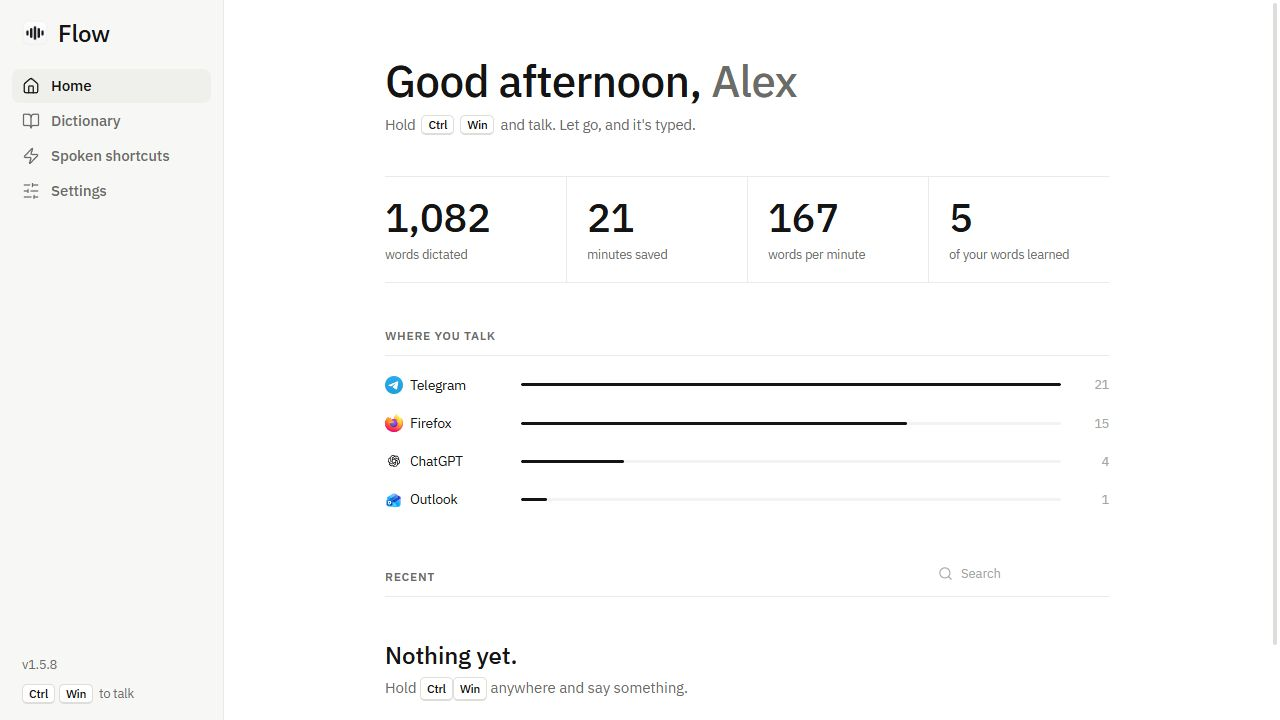
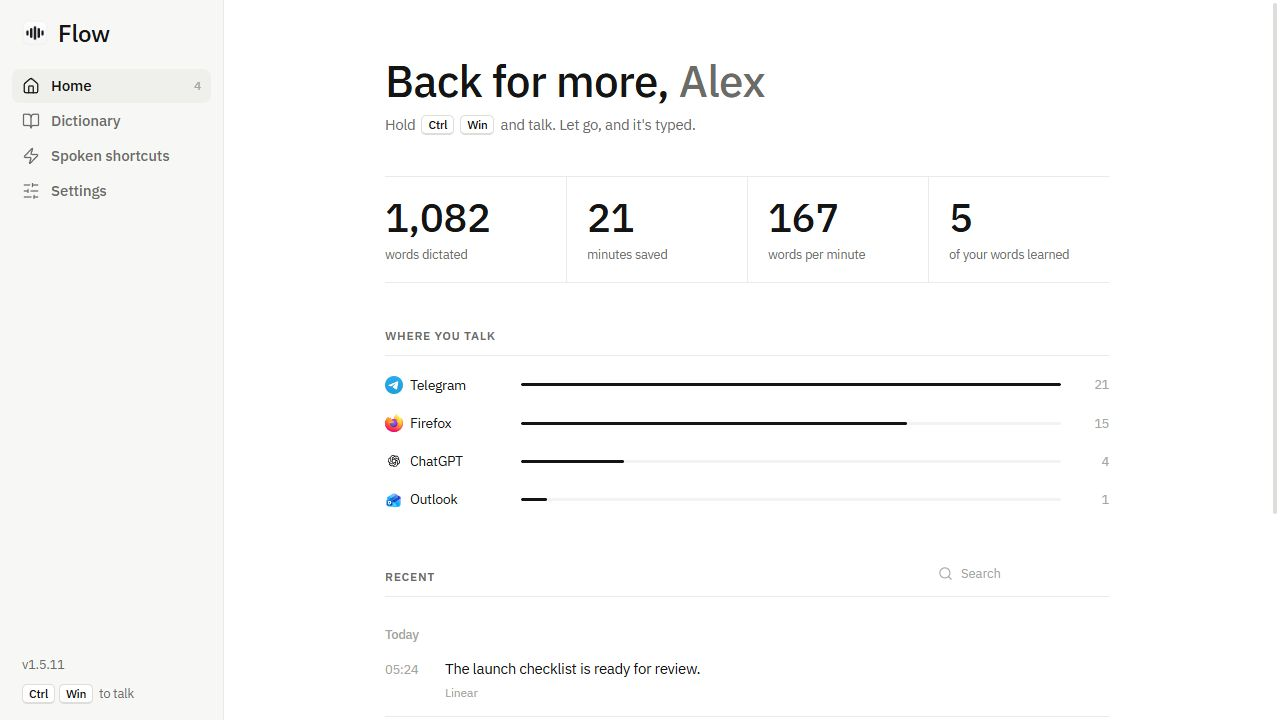
Fix Linux tutorial focus bridge and refresh release screenshots

Changed region(s): [[0.2812, 0.0917, 0.625, 0.1528], [0.2812, 0.8861, 0.5625, 0.9778]]

diff --git a/tests/test_port.py b/tests/test_port.py
@@ -46,6 +46,8 @@ class Bridge(unittest.TestCase):
         class DemoApi:
             def settings(self): return {"platform": "linux", "name": "Alex"}
             def save_settings(self, patch): return patch
+            def practice_focus(self, focused): return {"focused": focused}
+            def practice_close(self): return {"closed": True}
         self.server, self.url = make_server(DemoApi())
         self.thread = threading.Thread(target=self.server.serve_forever, daemon=True)
         self.thread.start()
@@ -79,6 +81,16 @@ class Bridge(unittest.TestCase):
     def test_private_methods_and_invalid_args(self):
         self.assert_status(Request(self.url + "api/_memory", data=b"[]", headers={"Content-Type": "application/json"}), 404)
         self.assert_status(Request(self.url + "api/settings", data=b"{}", headers={"Content-Type": "application/json"}), 400)
+
+    def test_tutorial_focus_and_close_rpc(self):
+        for method, args, expected in (("practice_focus", [False], {"focused": False}),
+                                       ("practice_focus", [True], {"focused": True}),
+                                       ("practice_close", [], {"closed": True})):
+            with self.subTest(method=method, args=args):
+                req = Request(self.url + "api/" + method, data=json.dumps(args).encode(),
+                              headers={"Content-Type": "application/json"})
+                with urlopen(req) as r:
+                    self.assertEqual(json.load(r), expected)
 
 
 if __name__ == "__main__":

diff --git a/ui_linux.py b/ui_linux.py
@@ -11,7 +11,8 @@ METHODS = {"stamp", "history", "delete", "clear", "copy", "edit", "settings", "s
            "insights", "memory", "add_term", "remove_term", "remove_fix", "scan_vaults",
            "enable_voice_notes", "system", "setup_run", "setup_status", "finish_onboarding",
     "configure_speech", "forget_api_key", "recording_status", "record_start", "record_stop", "record_cancel",
-    "practice_open", "practice_start", "practice_stop", "practice_cancel", "practice_status", "practice_complete"}
+    "practice_open", "practice_start", "practice_stop", "practice_cancel", "practice_status", "practice_complete",
+    "practice_focus", "practice_close"}
 METHODS.update({"diagnostics", "copy_speech_report", "export_speech_report"})
 METHODS.update({"update_status", "check_updates", "install_update", "save_update_access", "forget_update_access", "publish_update"})
 

diff --git a/version.py b/version.py
@@ -1,1 +1,1 @@
-APP_VERSION = "1.5.10"
+APP_VERSION = "1.5.11"
